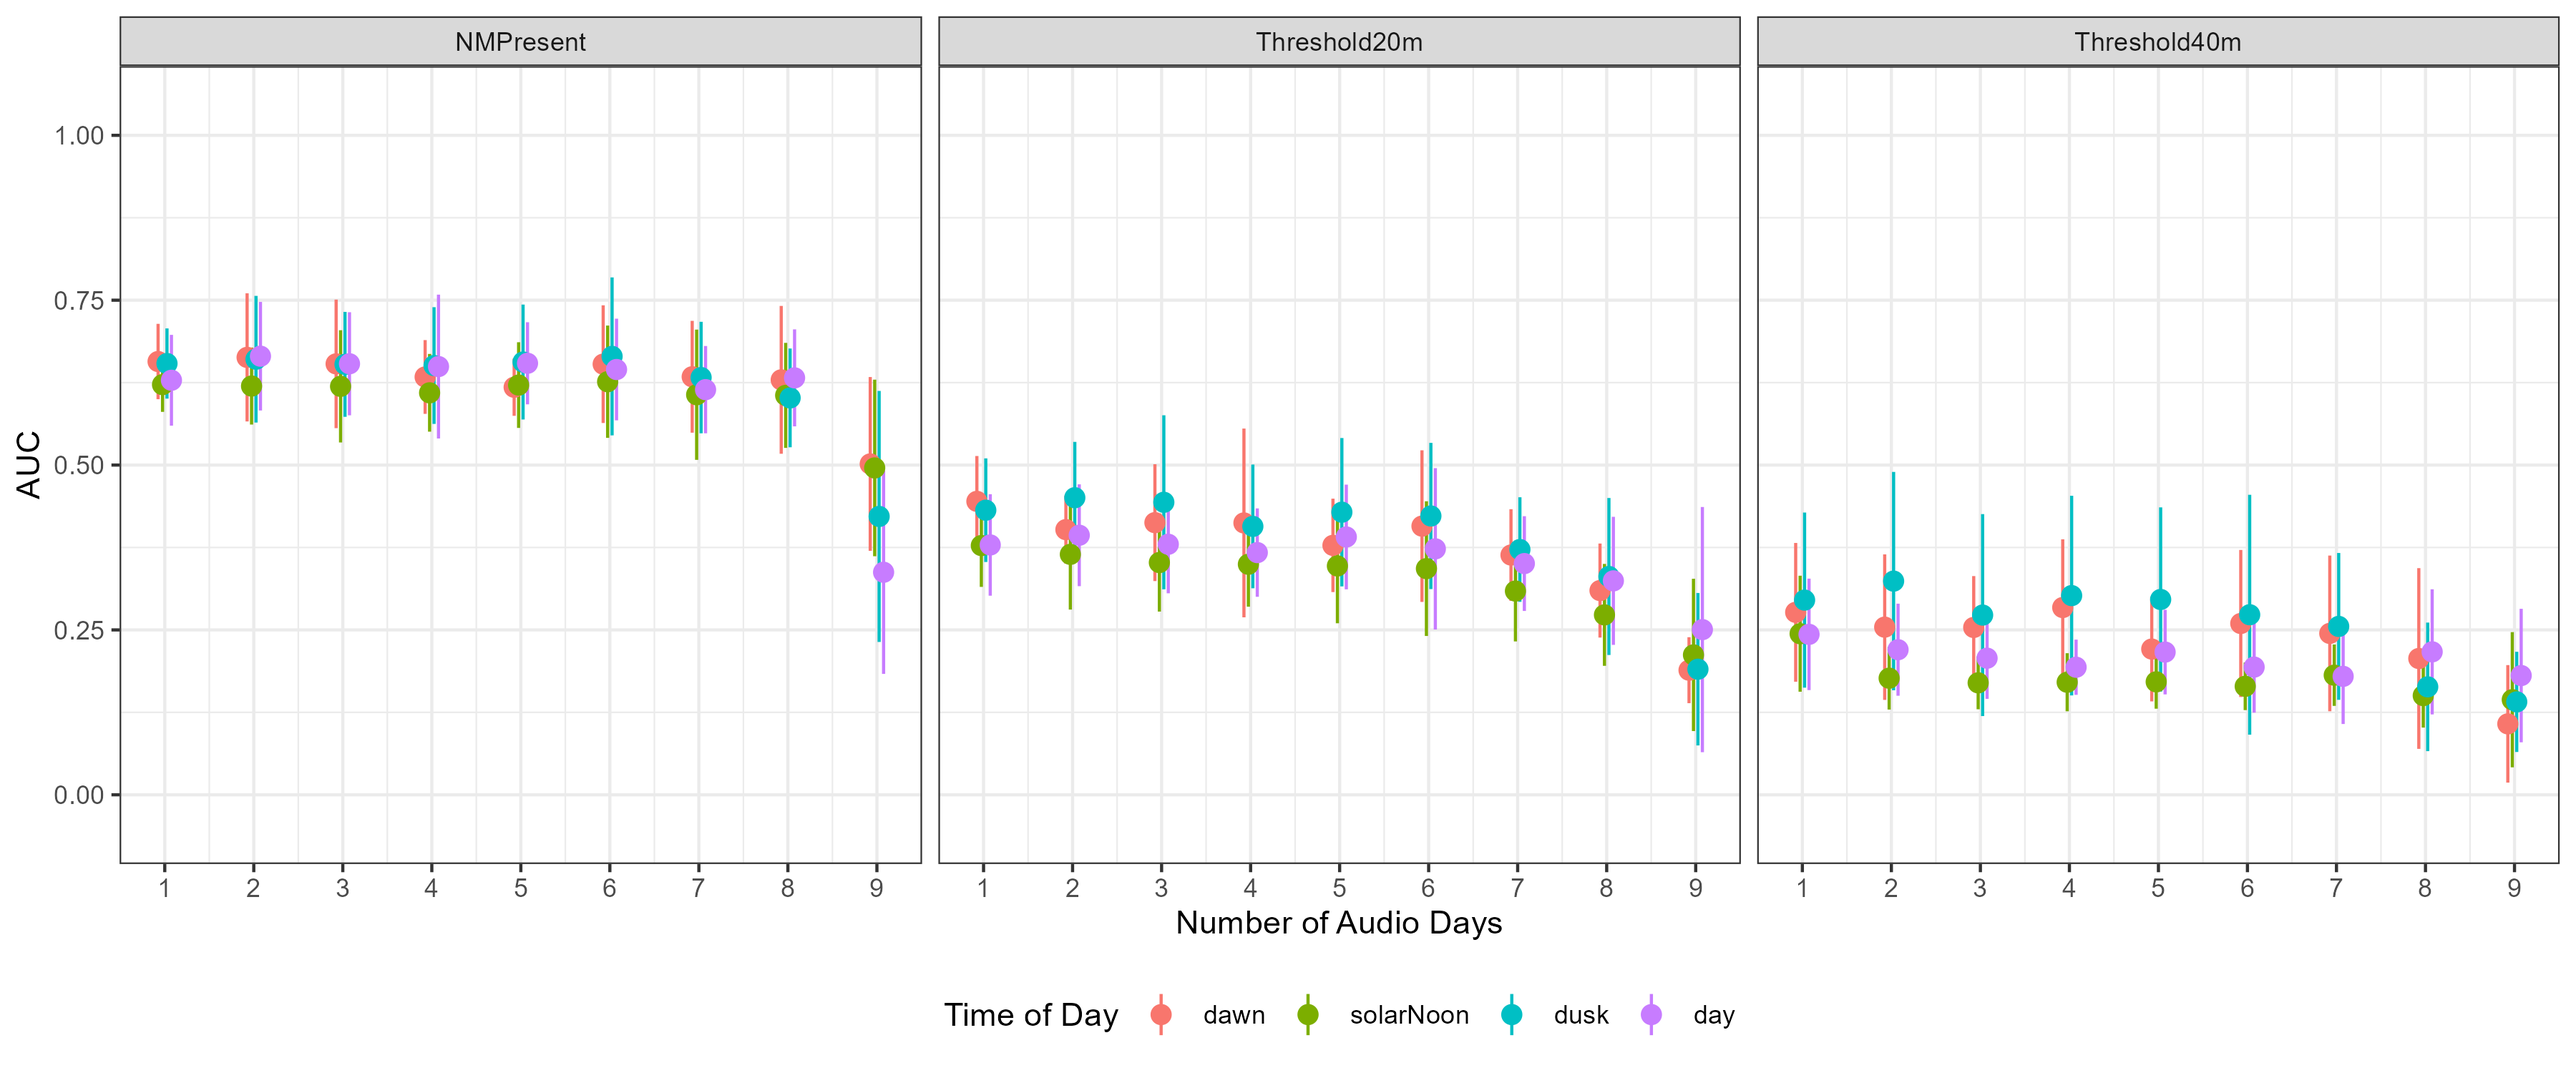
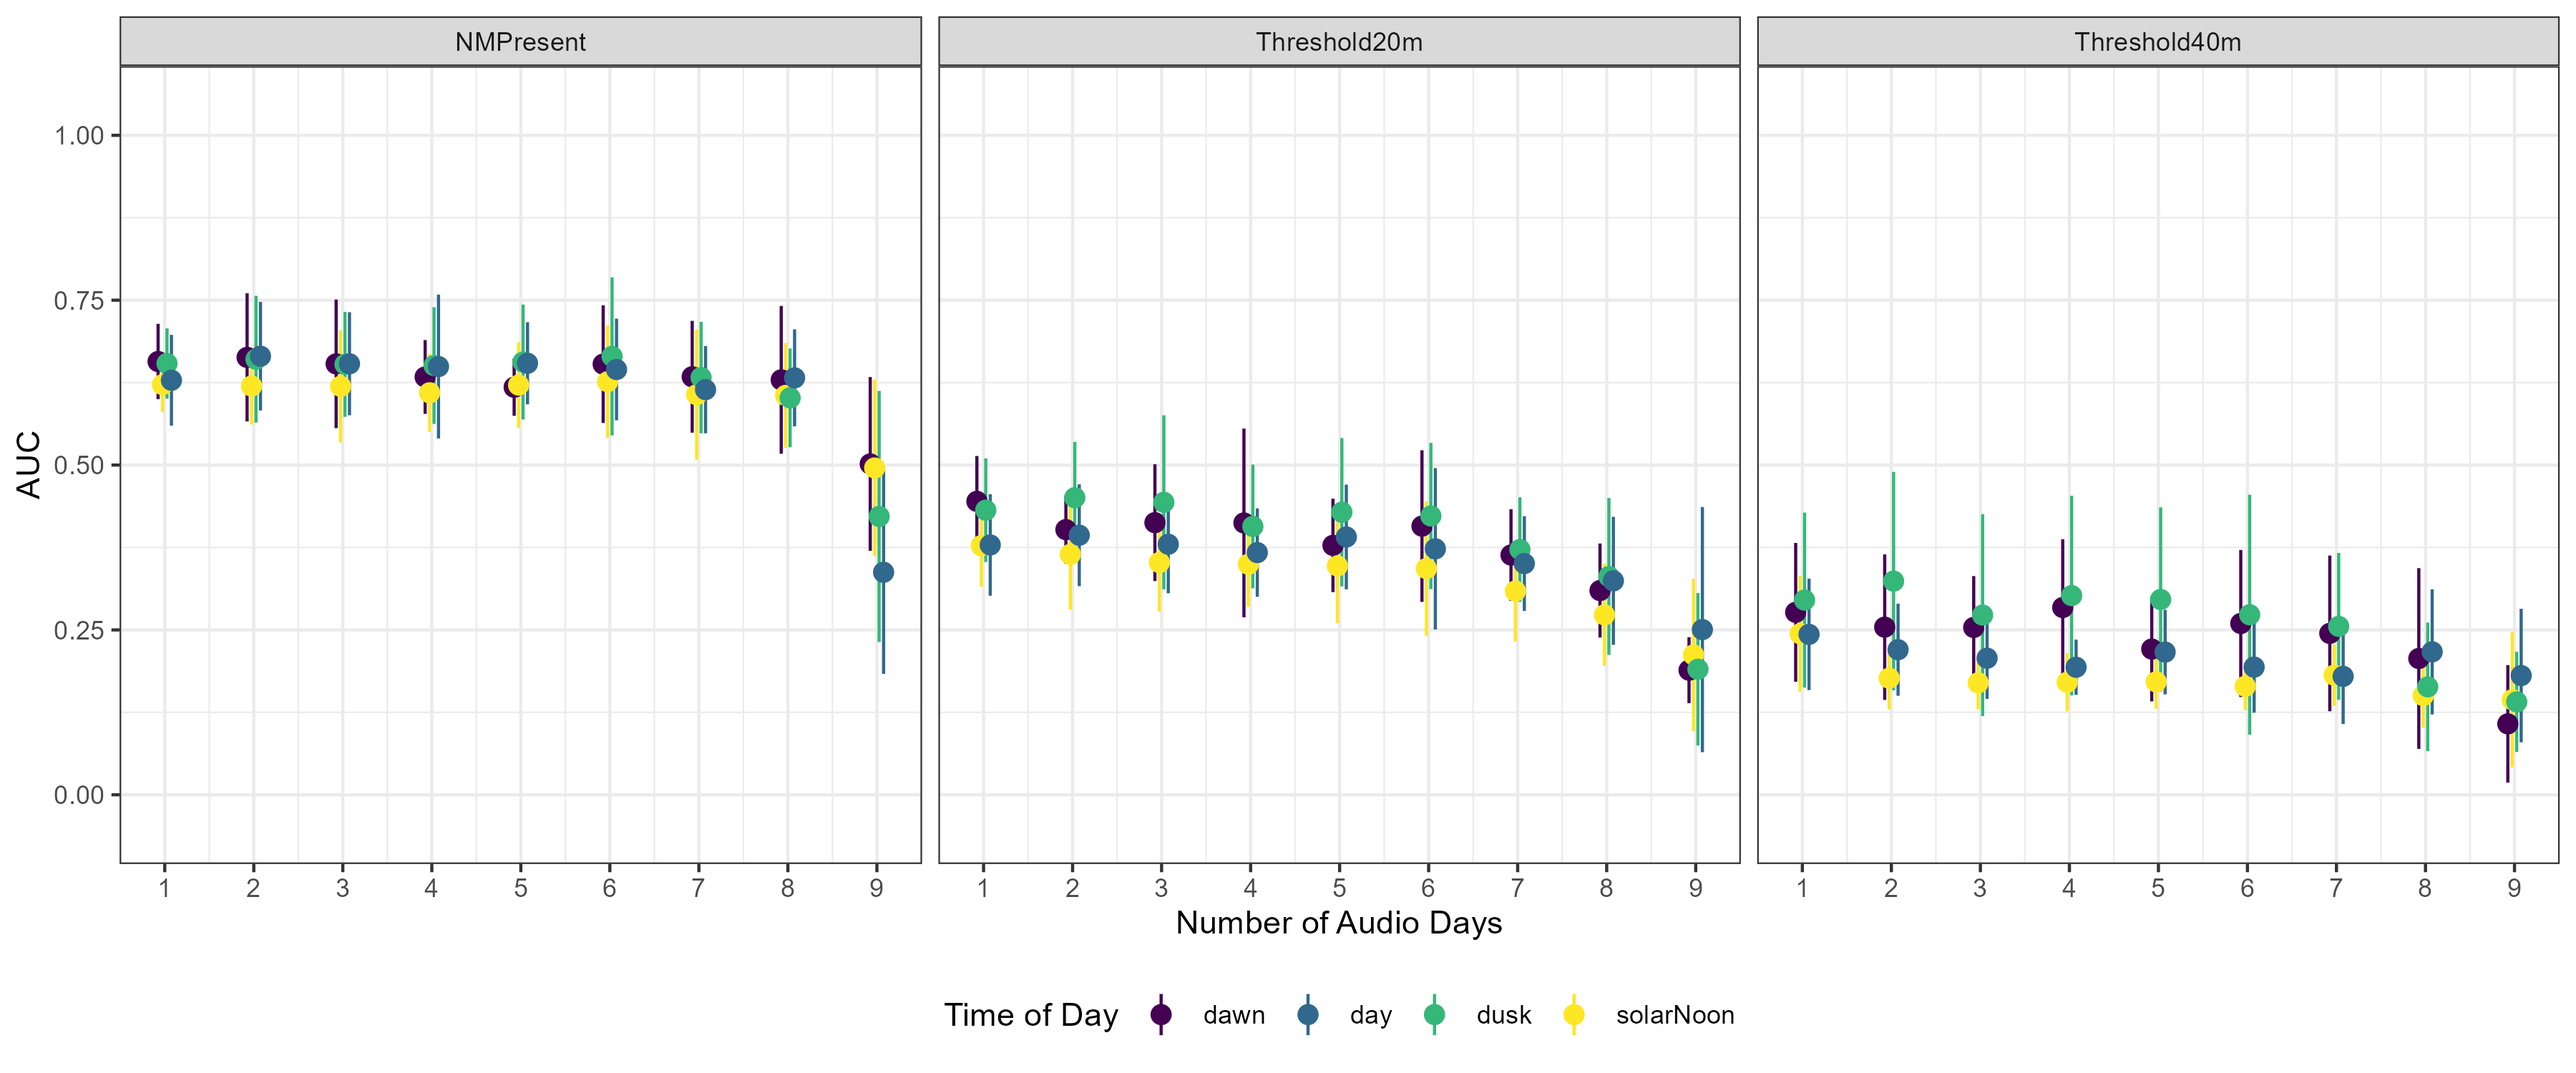
Updated colours of PCA_DFA performance plots; updated readme

diff --git a/README.md b/README.md
@@ -70,15 +70,17 @@ BI | Bioacoustic index `soundecology`
 We calculated custom acoustic indices for specific frequency bands in an attempt to tailor them for predicting the presence and number of Noisy miners. These indices were derived by aggegrating (using mean) the 43.1Hz spectral indices for the appropriate frequency range.
 
 We aggregated QUT's spectral indices (ACI, CVR, ENT, and PMN) at the following bands:
-*1.5kHz - 4.0kHz
-*2.0kHz - 3.0kHz
-*4.0kHz - 7.0kHz
-*5.0kHz - 6.0kHz
+
+* 1.5kHz - 4.0kHz
+* 2.0kHz - 3.0kHz
+* 4.0kHz - 7.0kHz
+* 5.0kHz - 6.0kHz
 
 ### Feature reduction
 In addition to the spectral indices described above, we also derived a reduced set of spectral indices that may be useful for predicting either total bird biodiversity or Noisy miner presence. QUT's AP software outputs spectral indices at a 43.1Hz frequency resolution between 0 and 11025 Hz, resulting in a feature set of length 256 per spectral index. In order to reduce this large feature set to something more suitable for machine learning methods we aggregated spectral indices across the frequency range to reduce the length of each spectral index from 256 to 16. The image below illustrates the aggregation method used, based on the advice of Mike Towsey:
 
 ![](acousticIndex_featureReduction.png)
+*Figure X. Illustration of feature reduction technique used for spectral indices. By default, 256 spectral indices are output at 43.1Hz resolution as shown on the left. After aggregating them using the sequence shown on the right, we are left with 16 spectral indices of varying frequency resolution.*
 
 ### Outlier removal
 An initial inspection of acoustic index values identified some extreme values, particularly for ACI. We removed these extreme values as they are likely due to an extreme sound event that does not reflect a change in call diversity.
@@ -102,31 +104,6 @@ Acoustic indices were aggregated into median values for four different time peri
 Sunrise and sunset times for all survey dates were extracted using the `suncalc` package (see [CalculateSunriseSunsetTimes.R](scripts/CalculateSunriseSunsetTimes.R))
 
 Data were removed if less than 70% of audio was available for the respective time period.
-
-### Plotting and analyses
-
-All the following are done for both Replicate 1 only and Replicate 1&2 combined datasets.
-
-#### Basic plots
-[BasicPlots.R](scripts/BasicPlots.R) produces scatterplots for each acoustic index and each continuous biodiversity measure (Total20m, Total40m, Diversity20m, Diversity40m, TotalMiner20, TotalMiner40) and boxplots for each acoustic index and each binary biodiversity measure (Noisy miner presence-absence, Threshold20m, and Threshold40m).
-
-For example (boxplots of Noisy miner presence for all acoustic indices calculated at dawn):
-
-<p>
-<img src="./outputs/figures/basicplots/R1Only/boxplots/boxplot_NMPresent_dawn.png" width=50% height=50%>
-</p>
-
-See [outputs/figures/basicplots](outputs/figures/basicplots) for all plots.
-
-
-#### Correlation between biodiversity and individual indices
-Bootstrap spearman correlations are calculated for all acoustic indices and bird biodiversity measures (all birds and miner measures) in the [BootstrapCorrelationPlots_Spearman.R](scripts/BootstrapCorrelationPlots_Spearman.R) script.
-
-#### Multiple indices to predict Noisy miner presence (PCA - LDA)
-
-PCA plots were produced for all Noisy miner presence variables (NMPresent, Threshold20m, Threshold40m) using all acoustic indices for the four time periods (dawn, solarNoon, dusk, day).
-
-Linear discriminant analysis (LDA) was used to try to develop predictive models of Noisy miner presence using all principal components with eigenvalues greater than 1. 
 
 
 ***
@@ -167,15 +144,12 @@ There was poor separation between Noisy miner presence variables using combinati
 ![](outputs/figures_2023/pca/SpectralAggregateIndices/Spectral%20Aggregate%20Indices%20-%20NMPresent%20-%205days.png)
 *Figure 4. PCA plots for Spectral Indices and the 'NMPresent' response (A:'dawn', B:'solarNoon', C:'dusk', D:'day'). Spectral indices used were ACI, CVR, ENT and PMN aggregated at four frequency bands (1.5kHz-4.0kHz, 2.0kHz - 3.0kHz, 4.0kHz - 7.0kHz, and 5.0kHz - 6.0kHz).*
 
-Attempting to use unique time-of-day periods per acoustic index (selected based on their highest correlation with MeanMiner40m) produced similar results (Figure 5).
-
-![](outputs/figures/pca/BestTimePeriodPerIndex_Threshold40m.png)
-*Figure 5. PCA plot for Replicate 1 and 2 combined and the Threshold40m response using unique time periods per acoustic index*
-
 See [outputs/figures_2023/pca](outputs/figures_2023/pca) for all PCA plots.
 
 #### Performance of LDA models fit to Principal Components
 
+We used linear discriminant analysis to try to classify the Noisy miner presence variables (NMPresent, Threshold20m, and Threshold40m) using the principal components that explained at least 90% of the variance in the dataset.
 
+![](outputs/figures_2023/pca_dfa/PCA_DFA_ModelPerformance_SummaryIndices.png)
 
-### 
+#### Performance of Random forest models fit to all indices
